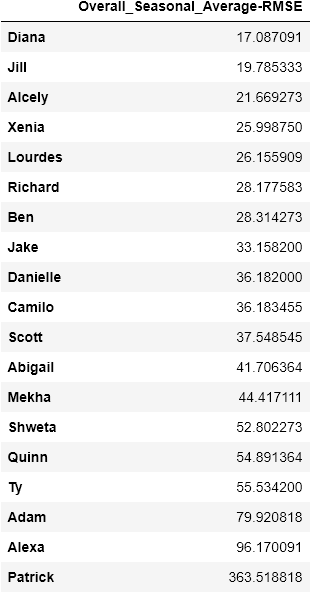
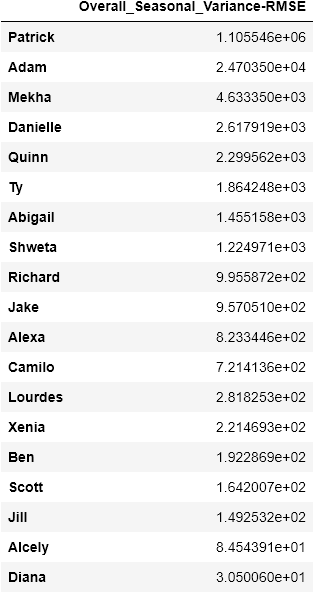
All coding done, just need to run results and update readmes

diff --git a/evaluation_scripts/forecast_analysis.py b/evaluation_scripts/forecast_analysis.py
@@ -9,7 +9,6 @@ import eval_functions as ef
 import plot_functions as pf
 import dataframe_image as dfi
 
-
 # %%
 forecast_week = int(input('What forecast week is it? (1-16): '))   # week 12 (Quinn and Ben 11/13/20)
 
@@ -140,7 +139,7 @@ max_weekly_RMSE_df = max_weekly_RMSE.to_frame(name="RMSE-weekly_max")
 Min_Max_RMSE = min_weekly_RMSE_df.join(max_weekly_RMSE_df)
 Min_Max_RMSE
 print(Min_Max_RMSE)
-dfi.export(Min_Max_RMSE, "all_charts/Min-Max-Weekly_RMSE.png")
+# dfi.export(Min_Max_RMSE, "all_charts/Min-Max-Weekly_RMSE.png")
 
 # %%
 # Calculates the mean seasonal RMSE per person (for each column)/
@@ -148,15 +147,31 @@ dfi.export(Min_Max_RMSE, "all_charts/Min-Max-Weekly_RMSE.png")
 mean_RMSE = seasonal_rmse.mean(axis=0)
 
 # %%
-# Converts mean_weekly_RMSE series to df
+# Converts mean_RMSE series to df
 mean_RMSE_df = mean_RMSE.to_frame(name = "Overall_Seasonal_Average-RMSE")
 
 # %%
 # Sort dataframe by values acsending to get top 3 "winners"
 # print dataframe to a PNG
-Overall_Seas_Min = mean_RMSE_df.sort_values(by=["Overall_Seasonal_Average-RMSE"], ascending=True)
-dfi.export(Overall_Seas_Min, "all_charts/Overall_Seasonal_Average-RMSE.png")
-Overall_Seas_Min
+Overall_Seas_Avg_Min = mean_RMSE_df.sort_values(by=["Overall_Seasonal_Average-RMSE"], ascending=True)
+dfi.export(Overall_Seas_Avg_Min, "all_charts/Overall_Seasonal_Average-RMSE.png")
+Overall_Seas_Avg_Min
+
+# %%
+# Calculates the min seasonal RMSE per person (for each column)/
+# over all weeks (seasonal forecast entries)
+min_RMSE = seasonal_rmse.min(axis=0)
+
+# %%
+# Converts min_RMSE series to df
+min_RMSE_df = min_RMSE.to_frame(name = "Overall_Seasonal_Minimum-RMSE")
+
+# %%
+# Sort dataframe by values acsending to get top 3 "winners"
+# print dataframe to a PNG
+Overall_Seas_Min_Min = min_RMSE_df.sort_values(by=["Overall_Seasonal_Minimum-RMSE"], ascending=True)
+dfi.export(Overall_Seas_Min_Min, "all_charts/Overall_Seasonal_Minimum-RMSE.png")
+Overall_Seas_Min_Min
 
 # %%
 # Calculates the seasonal RMSEvariance per person (for each column)/
@@ -171,75 +186,105 @@ vary_RMSE_df = vary_RMSE.to_frame(name = "Overall_Seasonal_Variance-RMSE")
 # Sort dataframe by values acsending to get top 3 "winners"
 # print dataframe to a PNG
 Overall_Seas_Vary = vary_RMSE_df.sort_values(by=["Overall_Seasonal_Variance-RMSE"], ascending=False)
-dfi.export(Overall_Seas_Min, "all_charts/Overall_Seasonal_Variance-RMSE.png")
+dfi.export(Overall_Seas_Vary, "all_charts/Overall_Seasonal_Variance-RMSE.png")
 Overall_Seas_Vary
 
 # %%
-# Print list of top 3 in selected winning categories:
-# 1) Lowest overall seasonal RMSE
-# 2) Highest overall seasonal RMSE variance
-# 3) Three overall closest singular RMSE values
+# Next three code blocks are Adam and Jill's trials at pulling out lowest three overall RMSE
+# more challenging than it seems!
+# trying to figure out how to get lowest three overall, can get one!!
+# Lowest_RMSE_trial1 = seasonal_rmse.loc[:, ].min().min()
+# Lowest_RMSE_trial1
 
-print("Top 3 lowest overall seasonal RMSE winners are:", Overall_Seas_Min.head(3))
+# # %%
+# # or can get one lowest RMSE value with this:
+# Lowest_RMSE_trial2 = seasonal_rmse.to_numpy()
+# np.nanmin(Lowest_RMSE_trial2)
+
+# %%
+# Converting seasonal_rmse df to a list, 
+# Then sorting ascending RMSE values
+# rmse_list = seasonal_rmse.values.tolist() 
+# final_list = list() 
+# for i in range(len(rmse_list)):     
+#     for j in range(len(rmse_list[i])):         
+#         if (pd.isnull(rmse_list[i][j])):             
+#             final_list.append(10000)         
+#         else:             
+#             final_list.append(rmse_list[i][j])
+
+# final_list.sort()
+
+# print(final_list)
+
+# %%
+# This sections prints list of top 3 in selected winning categories:
+# 1) Lowest overall average seasonal RMSE
+# 2) Highest overall seasonal RMSE variance
+# 3) Three overall lowest singular RMSE values (per person)
+
+print("Top 3 lowest overall seasonal RMSE winners are:", Overall_Seas_Avg_Min.head(3))
 print("\n")
 print("Top 3 highest variance in seasonal RMSE winners are:", Overall_Seas_Vary.head(3))
+print("\n")
+print("Top 3 lowest singular seasonal RMSE values winners are:", Overall_Seas_Min_Min.head(3))
 
 # Week 13 additions end (Adam, Jill)
 
-# # %%
-# # Probably will be use as bonus input? Still to be worked on later in the week.
-# weekly_rmse_mean = pd.DataFrame(weekly_rmse.mean(axis=1)).sort_values(0)
-# seasonal_rmse_mean = pd.DataFrame(seasonal_rmse.mean(axis=0)).sort_values(0)
+# %%
+# Probably will be use as bonus input? Still to be worked on later in the week.
+weekly_rmse_mean = pd.DataFrame(weekly_rmse.mean(axis=1)).sort_values(0)
+seasonal_rmse_mean = pd.DataFrame(seasonal_rmse.mean(axis=0)).sort_values(0)
 
-# # %% Week 7 addition, format new dataframes for
-# # weekly plotting, and assign same index
-# # trim and tanspose to make plotting easier
-# weekly_forecast1w_graph = weekly_forecast1w.iloc[:, 0:forecast_week-1].T
-# weekly_forecast2w_graph = weekly_forecast2w.iloc[:, 0:forecast_week-1].T
-
-
-# # %% Week 9 Addition: Plot results using the functions from plot_functions
-
-# # Plot 1 and 2 Week forecasts values for each student
-
-# pf.plot_class_forecasts(weekly_forecast1w_graph.T, weekly_flows, 1,
-#                         'forecast')
-# pf.plot_class_forecasts(weekly_forecast2w_graph.T, weekly_flows, 2,
-#                         'forecast')
+# %% Week 7 addition, format new dataframes for
+# weekly plotting, and assign same index
+# trim and tanspose to make plotting easier
+weekly_forecast1w_graph = weekly_forecast1w.iloc[:, 0:forecast_week-1].T
+weekly_forecast2w_graph = weekly_forecast2w.iloc[:, 0:forecast_week-1].T
 
 
-# # %%
-# # Plot errors (deviation) in 1 and 2 Week forecasts values for each student
+# %% Week 9 Addition: Plot results using the functions from plot_functions
 
-# pf.plot_class_forecasts(weekly_forecast1w_graph.T, weekly_flows, 1, # removed '-1' from weekly_flows to make the imput 1 equal to Week_1!
-#                         'abs_error')
-# pf.plot_class_forecasts(weekly_forecast2w_graph.T, weekly_flows, 2, # removed '-1' from weekly_flows to make the imput 1 equal to Week_1!
-#                         'abs_error')
+# Plot 1 and 2 Week forecasts values for each student
 
+pf.plot_class_forecasts(weekly_forecast1w_graph.T, weekly_flows, 1,
+                        'forecast')
+pf.plot_class_forecasts(weekly_forecast2w_graph.T, weekly_flows, 2,
+                        'forecast')
 
-# # %%
-# # Plot the evolution of the forecasts for the HAS-Tools Class
-# # Use 'box' as the last parameter to plot a box-whiskers plot.
-# # Use 'plot' as the last parameter to plot the summary as series
-
-# # 1 Week Forecast
-# pf.plot_class_summary(weekly_forecast1w_graph.T, weekly_flows, 1, 'box')
-
-# # 2 Week Forecast
-# pf.plot_class_summary(weekly_forecast1w_graph.T, weekly_flows, 2, 'box')
-
-
-# # %%
-# # Week 10 plots of root mean square errors
-
-# # Line plot of the seasonal root mean square error
-# rmse_sea_path = "all_charts/Seasonal_Root_Mean_Square_Error1.png"
-# pf.plot_seasonal_rmse(rmse_sea_path, seasonal_rmse)
-
-# # Histogram of the weekly root mean square error
-# rmse_his_path = "all_charts/Root_Mean_Square_Error_Histogram1.png"
-# pf.rmse_histogram(rmse_his_path, weekly_rmse)
-
-# # %%
 
 # %%
+# Plot errors (deviation) in 1 and 2 Week forecasts values for each student
+
+pf.plot_class_forecasts(weekly_forecast1w_graph.T, weekly_flows, 1, # removed '-1' from weekly_flows to make the imput 1 equal to Week_1!
+                        'abs_error')
+pf.plot_class_forecasts(weekly_forecast2w_graph.T, weekly_flows, 2, # removed '-1' from weekly_flows to make the imput 1 equal to Week_1!
+                        'abs_error')
+
+
+# %%
+# Plot the evolution of the forecasts for the HAS-Tools Class
+# Use 'box' as the last parameter to plot a box-whiskers plot.
+# Use 'plot' as the last parameter to plot the summary as series
+
+# 1 Week Forecast
+pf.plot_class_summary(weekly_forecast1w_graph.T, weekly_flows, 1, 'box')
+
+# 2 Week Forecast
+pf.plot_class_summary(weekly_forecast1w_graph.T, weekly_flows, 2, 'box')
+
+
+# %%
+# Week 10 plots of root mean square errors
+
+# Line plot of the seasonal root mean square error
+rmse_sea_path = "all_charts/Seasonal_Root_Mean_Square_Error1.png"
+pf.plot_seasonal_rmse(rmse_sea_path, seasonal_rmse)
+
+# Histogram of the weekly root mean square error
+rmse_his_path = "all_charts/Root_Mean_Square_Error_Histogram1.png"
+pf.rmse_histogram(rmse_his_path, weekly_rmse)
+
+# %%
+
+%%

diff --git a/evaluation_scripts/bonus/Bonus_wk13.py b/evaluation_scripts/bonus/Bonus_wk13.py
@@ -38,11 +38,11 @@ firstnames
 # %%
 # create list of emojis and shuffle randomly
 # SHAPE (# of list items) MUST MATCH FIRSTNAMES LIST
-emoji_list = ["&#x1F947;", "&#x1F948;", "&#x1F949;", "&#x1F600;",
-              "&#x1F601;", "&#x1F602;", "&#x1F603;",
-              "&#x1F604;", "&#x1F605;", "&#x1F606;",
-              "&#x1F607;", "&#x1F608;", "&#x1F609;",
-              "&#x1F610;"]
+emoji_list = ["&#x1F947;", "&#x1F948;", "&#x1F949;", "&#x1F62D;",
+              "&#x1F62D;", "&#x1F62D;", "&#x1F622;",
+              "&#x1F622;", "&#x1F622;", "&#x1F616;",
+              "&#x1F616;", "&#x1F61E;", "&#x1F61E;",
+              "&#x1F61E;"]
 emoji_random = random.sample(emoji_list, 14)
 print(emoji_random)
 
@@ -50,7 +50,7 @@ print(emoji_random)
 # convert lists to dictionaries within a dataframe
 # write to csv
 Full_list = pd.DataFrame(dict(emoji=emoji_random), index=firstnames)
-Full_list.to_csv("full-list.csv")
+Full_list.to_csv("random-emoji-generator-list.csv")
 Full_list
 
 # %%

diff --git a/README.md b/README.md
@@ -244,7 +244,8 @@ ___
 - Points given on the basis of daringness with the seasonal forecast
 
 ### Forecast Week 13: 11/15 - 11/21
-*Judges:* Jill and Adam
+*Judges:* Jill and Adam  
+
 **Observed flow** = flow cfs
 
 **One week forecast**:
@@ -259,7 +260,7 @@ ___
 
 **Bonus points**:
 -
-- Points awarded using random emoji assignment generator - just pluck the magic twanger and see who wins!
+- Points awarded using random emoji assignment generator - pluck the magic twanger and see who wins!
 
 ### Forecast Week 14: 11/22 - 11/28
 *Judges:*

diff --git a/evaluation_scripts/Readme.md b/evaluation_scripts/Readme.md
@@ -124,4 +124,4 @@ ___
       for seasonal forecast scoring:
            1) Lowest overall average seasonal RMSE
            2) Highest overall seasonal RMSE variance
-           3) Three overall closest singular RMSE values
+           3) Three overall lowest singular RMSE values
